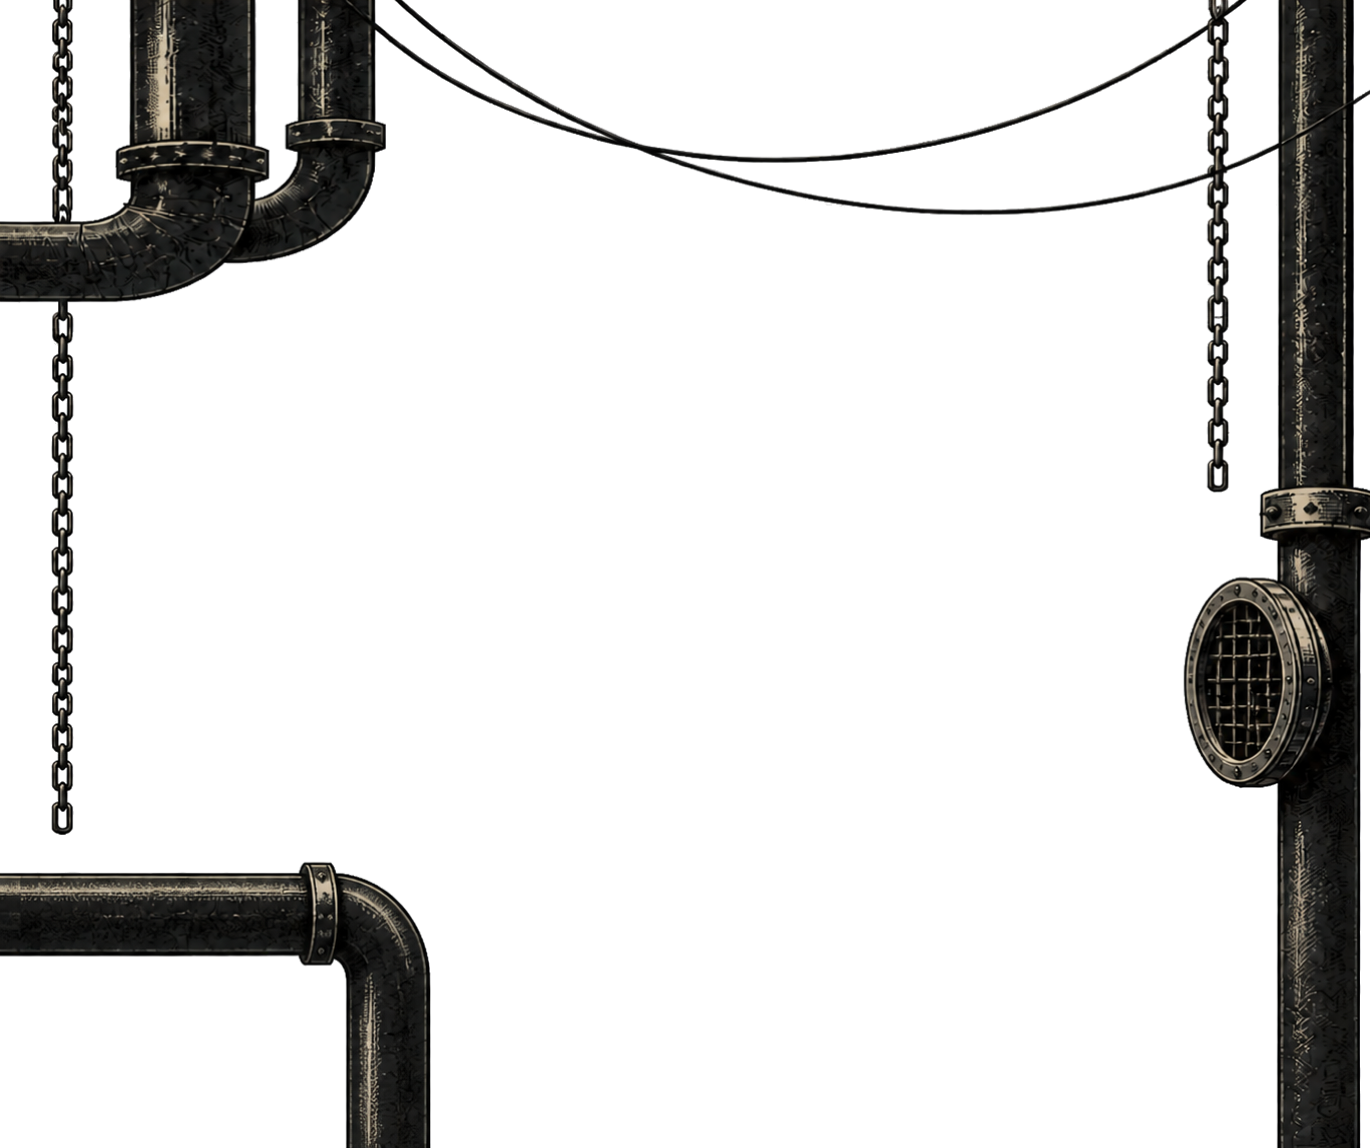
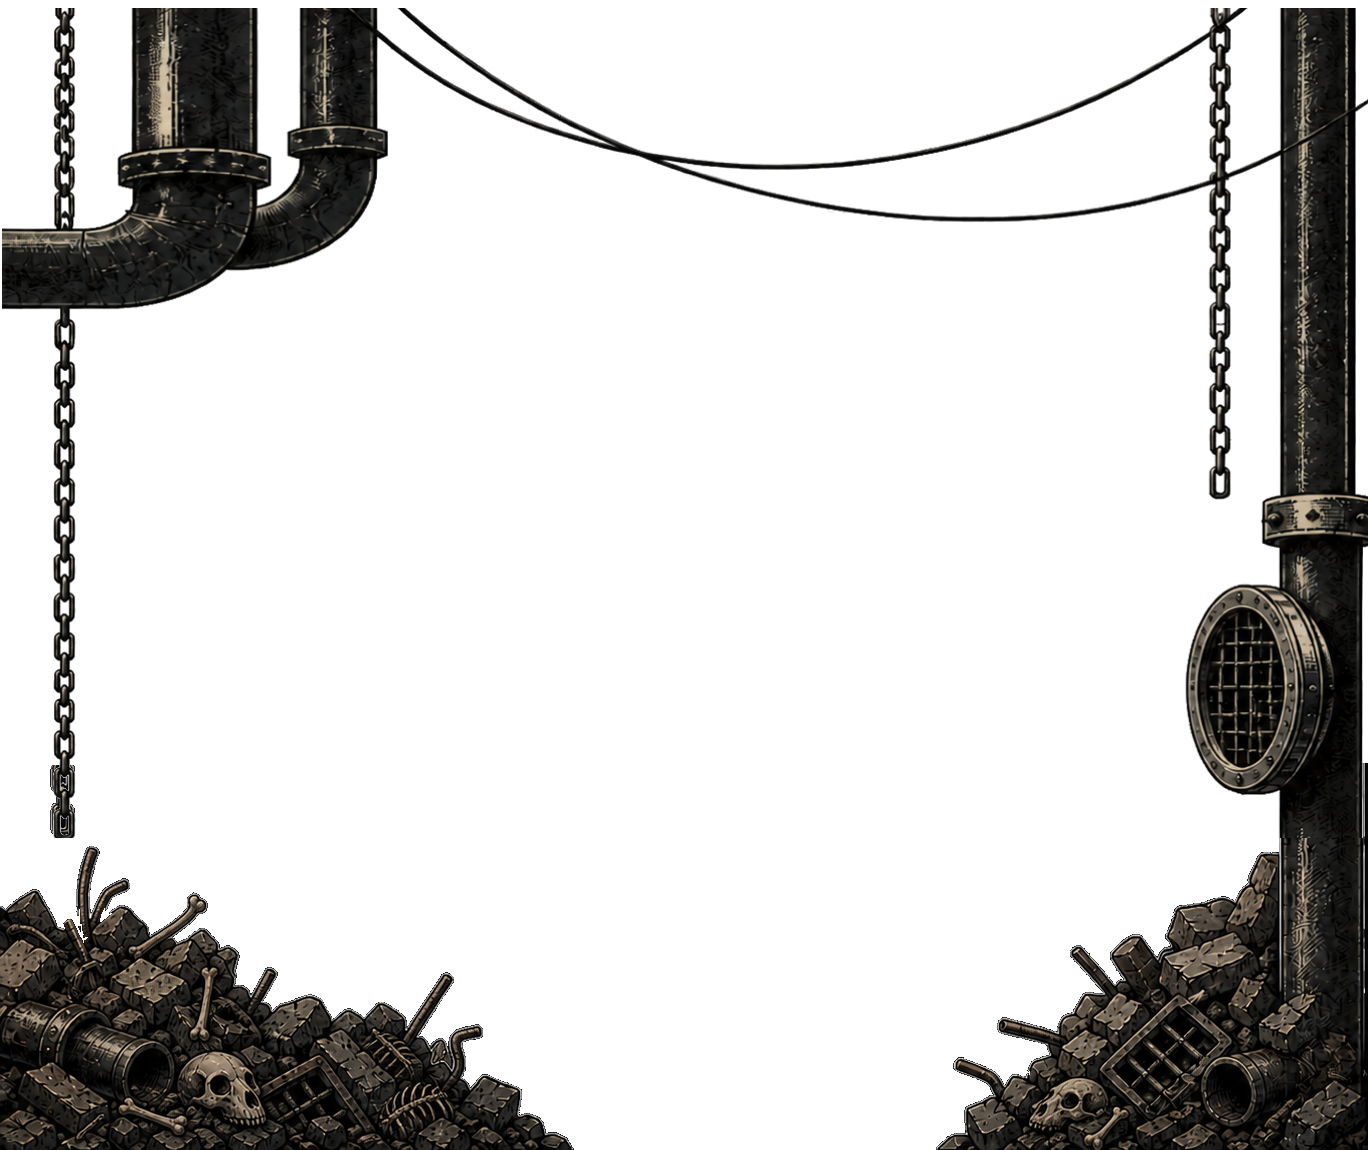
Finalize sewer foreground and regression levels

Changed region(s): [[0.0, 0.0, 1.0, 1.0], [0.7061, 0.061, 0.8289, 0.122]]

diff --git a/bevy_blob/src/environment.rs b/bevy_blob/src/environment.rs
@@ -5,6 +5,7 @@ use crate::level_format::{
     NutrientDefinition, ParsedLevel, SafetyBoundsDefinition, VisualLayer, WastewaterAreaDefinition,
     parse_level,
 };
+use crate::nutrition::{NutrientPhysics, NutritionWorld, spawn_nutrient_bodies};
 use avian2d::prelude::{
     Collider, CollisionLayers, PhysicsLayer, RigidBody, ShapeCastConfig, SpatialQuery,
     SpatialQueryFilter,
@@ -267,6 +268,26 @@ impl Level {
     }
 
     pub(super) fn test_scenario(index: u8) -> (Self, Vec2) {
+        let external_level = match index {
+            2 => Some(include_str!("../assets/levels/supports_lab/level.json")),
+            3 => Some(include_str!("../assets/levels/curves_lab/level.json")),
+            4 => Some(include_str!("../assets/levels/low_passage_lab/level.json")),
+            5 => Some(include_str!("../assets/levels/impact_lab/level.json")),
+            6 => Some(include_str!("../assets/levels/split_bridge_lab/level.json")),
+            7 => Some(include_str!(
+                "../assets/levels/regression_fragment_seams/level.json"
+            )),
+            8 => Some(include_str!(
+                "../assets/levels/regression_nutrient_wall/level.json"
+            )),
+            9 => Some(include_str!(
+                "../assets/levels/regression_coral_basin/level.json"
+            )),
+            _ => None,
+        };
+        if let Some(source) = external_level {
+            return Self::from_embedded_regression(source);
+        }
         match index {
             2 => (
                 Self {
@@ -460,6 +481,14 @@ impl Level {
             _ => (Self::prototype(), BLOB_START),
         }
     }
+
+    fn from_embedded_regression(source: &str) -> (Self, Vec2) {
+        let level = Self::from_parsed(
+            parse_level(source).expect("embedded regression level must be valid"),
+        );
+        let spawn = level.spawn_position;
+        (level, spawn)
+    }
 }
 
 fn semicircle_fixture(center: Vec2, radius: f32, depth: f32) -> Vec<Vec2> {
@@ -533,7 +562,7 @@ pub(super) fn toggle_level_debug(
     keyboard: Res<ButtonInput<KeyCode>>,
     mut overlay: ResMut<LevelDebugOverlay>,
 ) {
-    if keyboard.just_pressed(KeyCode::F7) {
+    if keyboard.just_pressed(KeyCode::Digit0) || keyboard.just_pressed(KeyCode::Backquote) {
         overlay.visible = !overlay.visible;
         if overlay.visible {
             overlay.camera_detached = true;
@@ -628,17 +657,21 @@ pub(super) fn switch_test_scenario(
     mut blobs: ResMut<BlobWorld>,
     mut vitality: ResMut<VitalityWorld>,
     mut nutrition: ResMut<NutritionWorld>,
+    nutrient_bodies: Query<Entity, With<NutrientPhysics>>,
 ) {
-    let requested = (1..=6).find(|index| {
-        keyboard.just_pressed(match index {
-            1 => KeyCode::F1,
-            2 => KeyCode::F2,
-            3 => KeyCode::F3,
-            4 => KeyCode::F4,
-            5 => KeyCode::F5,
-            _ => KeyCode::F6,
-        })
-    });
+    let requested = [
+        (1, KeyCode::Digit1),
+        (2, KeyCode::Digit2),
+        (3, KeyCode::Digit3),
+        (4, KeyCode::Digit4),
+        (5, KeyCode::Digit5),
+        (6, KeyCode::Digit6),
+        (7, KeyCode::Digit7),
+        (8, KeyCode::Digit8),
+        (9, KeyCode::Digit9),
+    ]
+    .into_iter()
+    .find_map(|(index, key)| keyboard.just_pressed(key).then_some(index));
     let Some(requested) = requested else {
         return;
     };
@@ -646,6 +679,9 @@ pub(super) fn switch_test_scenario(
         commands.entity(entity).despawn();
     }
     for entity in &artwork {
+        commands.entity(entity).despawn();
+    }
+    for entity in &nutrient_bodies {
         commands.entity(entity).despawn();
     }
     let (new_level, spawn) = Level::test_scenario(requested);
@@ -657,6 +693,7 @@ pub(super) fn switch_test_scenario(
     reset_world_at(&mut blobs, spawn);
     vitality.reset();
     nutrition.reset_from_definitions(&level.nutrients);
+    spawn_nutrient_bodies(&mut commands, &level.nutrients);
 }
 
 pub(super) fn simulate_level_hazards(
@@ -1280,14 +1317,14 @@ mod tests {
     }
 
     #[test]
-    fn f7_toggles_level_debug_overlay() {
+    fn digit_zero_toggles_level_debug_overlay() {
         let mut app = App::new();
         app.init_resource::<ButtonInput<KeyCode>>()
             .init_resource::<LevelDebugOverlay>()
             .add_systems(Update, toggle_level_debug);
         app.world_mut()
             .resource_mut::<ButtonInput<KeyCode>>()
-            .press(KeyCode::F7);
+            .press(KeyCode::Digit0);
 
         app.update();
 

diff --git a/bevy_blob/src/hud.rs b/bevy_blob/src/hud.rs
@@ -13,7 +13,7 @@ const METRICS_LAYER: usize = 2;
 // WindowResolution describes the client area and excludes native borders and
 // title bars. Keep enough logical space for those decorations on every OS.
 const NATIVE_WINDOW_GAP: f32 = 64.0;
-const CONTROLS: &str = "CONTROLS\n\nA / D or arrows   Roll and move\nHold Down         Charge jump\nRelease Down      Jump\nHold C            Probe for nutrient\nQ                 Pseudo-spine shield\nSpace             Radial acid burst\nX                 Split selected blob\nTab               Select next blob\nE                 Rejoin siblings\nR                 Reset game\nM                 Toggle ink style preview\nF1                Standard level\nF2                Supports lab\nF3                Curves lab\nF4                U and low passage\nF5                Fall and impact lab\nF6                V and split bridge\nF7                Level physics overlay\nI / J / K / L     Move debug camera\nU / O             Debug camera zoom\nP                 Return and follow blob\nH                 Show / hide this window\nEsc               Exit";
+const CONTROLS: &str = "CONTROLS\n\nA / D or arrows   Roll and move\nHold Down         Charge jump\nRelease Down      Jump\nHold C            Probe for nutrient\nQ                 Pseudo-spine shield\nSpace             Radial acid burst\nX                 Split selected blob\nTab               Select next blob\nE                 Rejoin siblings\nR                 Reset game\nM                 Toggle ink style preview\n\nLEVELS\n1                 Sewer entrance\n2                 Supports lab\n3                 Curves lab\n4                 Low passage lab\n5                 Impact lab\n6                 Split bridge lab\n7                 Small fragment seams\n8                 Nutrient wall regression\n9                 Coral basin regression\n0                 Physics overlay\n\nI / J / K / L     Move debug camera\nU / O             Debug camera zoom\nP                 Return and follow blob\nH                 Show / hide this window\nEsc               Exit";
 
 #[derive(Resource)]
 pub(super) struct LegendState {
@@ -37,7 +37,7 @@ pub(super) fn setup_legend(mut commands: Commands) {
             ControlsWindow,
             Window {
                 title: "Blob — Controls".into(),
-                resolution: WindowResolution::new(390, 605),
+                resolution: WindowResolution::new(390, 760),
                 position: WindowPosition::At(IVec2::new(1_000, 30)),
                 resizable: false,
                 enabled_buttons: EnabledButtons {

diff --git a/bevy_blob/src/nutrition.rs b/bevy_blob/src/nutrition.rs
@@ -403,7 +403,21 @@ pub(super) fn setup_nutrition(
     let mut nutrient_mesh = empty_nutrient_mesh();
     update_nutrient_mesh(&mut nutrient_mesh, &nutrition.nutrients, slots, 0.0);
     commands.insert_resource(nutrition);
-    for (index, definition) in level.nutrients.iter().enumerate() {
+    spawn_nutrient_bodies(&mut commands, &level.nutrients);
+    let mesh = meshes.add(nutrient_mesh);
+    commands.spawn((
+        Mesh2d(mesh.clone()),
+        // Vertex alpha shows nutrients through the translucent blob membrane.
+        MeshMaterial2d(materials.add(ColorMaterial::default())),
+        Transform::from_xyz(0.0, 0.0, -0.06),
+    ));
+    commands.insert_resource(NutrientRenderAssets { mesh, slots });
+}
+
+/// Rebuilds the Avian bodies that own free nutrient and residue motion.
+/// Scenario changes call this after replacing the JSON-derived definitions.
+pub(super) fn spawn_nutrient_bodies(commands: &mut Commands, definitions: &[NutrientDefinition]) {
+    for (index, definition) in definitions.iter().enumerate() {
         commands.spawn((
             NutrientPhysics { index },
             RigidBody::Dynamic,
@@ -420,14 +434,6 @@ pub(super) fn setup_nutrition(
             Transform::from_xyz(definition.position.x, definition.position.y, 0.0),
         ));
     }
-    let mesh = meshes.add(nutrient_mesh);
-    commands.spawn((
-        Mesh2d(mesh.clone()),
-        // Vertex alpha shows nutrients through the translucent blob membrane.
-        MeshMaterial2d(materials.add(ColorMaterial::default())),
-        Transform::from_xyz(0.0, 0.0, -0.06),
-    ));
-    commands.insert_resource(NutrientRenderAssets { mesh, slots });
 }
 
 pub(super) fn simulate_nutrition(

diff --git a/bevy_blob/src/rendering/ambient.rs b/bevy_blob/src/rendering/ambient.rs
@@ -113,7 +113,6 @@ pub(crate) fn setup_ambient_drop_assets(
 pub(crate) fn simulate_wastewater(
     mut commands: Commands,
     time: Res<Time>,
-    ink_style: Res<InkStylePreview>,
     scenario: Res<TestScenario>,
     level: Res<Level>,
     effects: Res<WastewaterEffects>,
@@ -122,7 +121,9 @@ pub(crate) fn simulate_wastewater(
     mut materials: ResMut<Assets<ColorMaterial>>,
     surfaces: Query<(Entity, &WastewaterSurface)>,
 ) {
-    let visible = ink_style.enabled && matches!(scenario.0, 0 | 1);
+    // Water is gameplay geometry and must remain visible in every laboratory,
+    // not only in the ink-art preview of the main level.
+    let visible = !level.wastewater_areas.is_empty();
     let needs_rebuild = state.scenario != Some(scenario.0) || state.visible != visible;
     if needs_rebuild {
         for (entity, _) in &surfaces {
@@ -229,7 +230,6 @@ pub(crate) fn simulate_wastewater_impacts(
 pub(crate) fn simulate_wastewater_bubbles(
     mut commands: Commands,
     time: Res<Time>,
-    ink_style: Res<InkStylePreview>,
     scenario: Res<TestScenario>,
     level: Res<Level>,
     assets: Res<AmbientDropAssets>,
@@ -240,7 +240,7 @@ pub(crate) fn simulate_wastewater_bubbles(
     mut bubbles: Query<(Entity, &WastewaterBubble, &mut Transform)>,
 ) {
     let dt = time.delta_secs().min(1.0 / 20.0);
-    let visible = ink_style.enabled && matches!(scenario.0, 0 | 1);
+    let visible = !level.wastewater_areas.is_empty();
     if !visible {
         for (entity, _, _) in &mut bubbles {
             commands.entity(entity).despawn();

diff --git a/bevy_blob/src/rendering.rs b/bevy_blob/src/rendering.rs
@@ -122,7 +122,10 @@ pub(super) fn sync_ink_preview(
                 custom_size: Some(level.size()),
                 ..default()
             },
-            Transform::from_translation(level.center().extend(2.0)),
+            // Foreground pipes and debris are an occlusion layer: gameplay
+            // structures remain visible through their central opening, while
+            // overlapping portions correctly pass behind this artwork.
+            Transform::from_translation(level.center().extend(2.5)),
         ));
     }
 
@@ -212,8 +215,8 @@ fn spawn_ink_platform(
     commands.spawn((
         InkPreviewShape { scenario },
         Sprite::from_color(ink, size),
-        // Ink-preview structures must sit above the static foreground artwork
-        // (z=2), otherwise the illustration hides the playable geometry.
+        // The foreground artwork is an intentional occlusion layer (z=2.5),
+        // so structures are drawn beneath its pipes and corner debris.
         Transform::from_translation(visual_center.extend(2.20)),
     ));
 
@@ -285,7 +288,7 @@ fn ink_hash(first: usize, second: usize) -> f32 {
     (mixed & 0xffff) as f32 / u16::MAX as f32
 }
 
-// Scenario 0 is the startup instance of F1; pressing F1 explicitly assigns 1.
+// Scenario 0 is the startup instance of level 1; pressing 1 explicitly assigns 1.
 fn supports_ink_background(scenario: u8) -> bool {
     matches!(scenario, 0 | 1)
 }

diff --git a/bevy_blob/README.md b/bevy_blob/README.md
@@ -264,16 +264,25 @@ bevy_blob/
 Use [PHYSICS_TEST_SCENARIOS.md](PHYSICS_TEST_SCENARIOS.md) as the shared manual
 test plan for irregular supports, blob stacks, and movable corpses.
 
-Press `F1` through `F6` to load the standard level or one of five grouped test
-laboratories. `F1` now crosses both lateral wings of the sewer before continuing
-through its vertical platforms. `F2` combines narrow supports, stairs, corners, and a bridge; `F3`
-combines a shallow ramp, semicircle, and segmented wave; `F4` combines a U-shaped
-pocket with a low horizontal passage; `F5` is a separate fall-and-impact course
+Press `1` through `9` to load the standard level or a laboratory. `0` is
+reserved for the physics overlay.
+`1` now crosses both lateral wings of the sewer before continuing
+through its vertical platforms. `2` combines narrow supports, stairs, corners, and a bridge; `3`
+combines a shallow ramp, semicircle, and segmented wave; `4` combines a U-shaped
+pocket with a low horizontal passage; `5` is a separate fall-and-impact course
 with narrow landings, alternating ledges, a drop shaft, and overhead contacts;
-`F6` contains the V-shaped valley and split bridge. Each switch resets the active
+`6` contains the V-shaped valley and split bridge. Each switch resets the active
 blob.
 All test geometry uses actual static Avian colliders, with the same tessellated
 profiles used for collision detection and rendering.
+
+Three focused regression laboratories protect the most fragile recent systems:
+`8` tests nutrients and residues pushed against a thin vertical wall,
+`9` tests the coral basin (buoyancy, spine-driven movement, reversal,
+and exit), and `7` tests split fragments over the shared seam between
+two convex slopes.
+Changing laboratory also recreates the Avian nutrient bodies from that level's
+definitions, so no physics body can leak from a previous scenario.
 
 Test laboratories use a wider camera scale and a small upward look-ahead so the
 next structure is visible before committing to a jump. Numbered amber markers
@@ -376,7 +385,7 @@ size, and depth. Keep background images below the physics drawing depth and
 foreground images above it. Large levels can use several adjacent images
 instead of a single oversized texture.
 
-Press `F7` to overlay level bounds, collider geometry, route checkpoints, and
+Press `0` (or `` ` ``) to overlay level bounds, collider geometry, route checkpoints, and
 the spawn marker on the artwork. While it is active, use `I/J/K/L` to pan,
 `U/O` to zoom, and `P` to return to the selected blob. This diagnostic view
 also shows light radii, expulsion directions, and hazard volumes without

diff --git a/bevy_blob/PHYSICS_TEST_SCENARIOS.md b/bevy_blob/PHYSICS_TEST_SCENARIOS.md
@@ -4,9 +4,36 @@ These layouts are the reference cases for validating living blobs, corpses, and
 irregular support surfaces. Test each one with a large and a small blob and
 observe it for at least ten seconds after contact settles.
 
-The cases are grouped in the running prototype: `F2` is the supports lab, `F3`
-is the curves lab, `F4` combines a U pocket and low passage, `F5` is a distinct
-fall-and-impact course, and `F6` combines the V valley and split bridge.
+The cases are grouped in the running prototype: `2` is the supports lab, `3`
+is the curves lab, `4` combines a U pocket and low passage, `5` is a distinct
+fall-and-impact course, and `6` combines the V valley and split bridge.
+
+The focused regression laboratories are `8` (nutrient versus thin wall),
+`9` (coral basin and spine climbing), and `7` (small fragments on a
+convex shared seam). They are intentionally minimal: use them after every
+change to nutrient physics, water movement, or membrane contact handling.
+
+## Focused Regression Checks
+
+### 8 — Nutrient Wall
+
+- Push the left nutrient hard into the thin vertical wall.
+- It must stop or rebound; it must never appear on the other side.
+- Repeat after digestion and expulsion, when it is a smaller residue.
+
+### 9 — Coral Basin
+
+- Enter the basin with the default blob; it should float and remain controllable.
+- Hold `Q` and alternate `A` / `D`: the selected input determines the roll.
+- With either horizontal input held, the spines must sustain a climb and allow
+  a controlled exit over either rim.
+
+### 0 — Small Fragment Seams
+
+- Split twice, then drop or jump the smallest fragment onto the seam at the top
+  of the two central convex slopes.
+- The membrane must remain outside both solids, without jitter or a permanent
+  point trapped at the shared vertex.
 
 Numbered amber checkpoints identify the intended traversable route. Their size
 increases with the sequence, and each marker disappears when the selected blob
